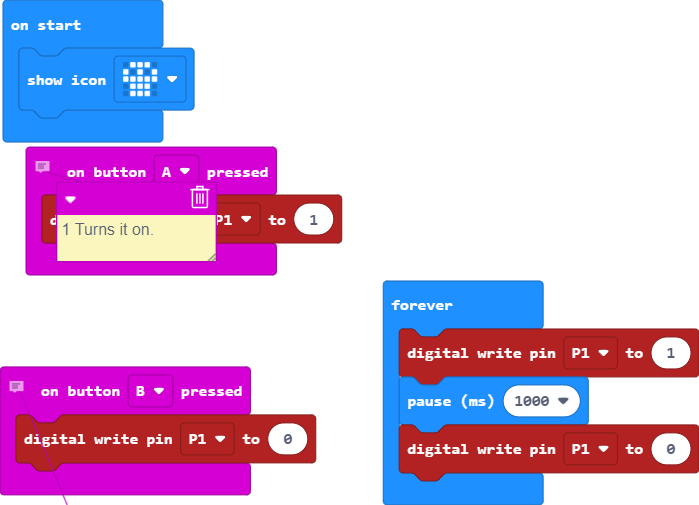
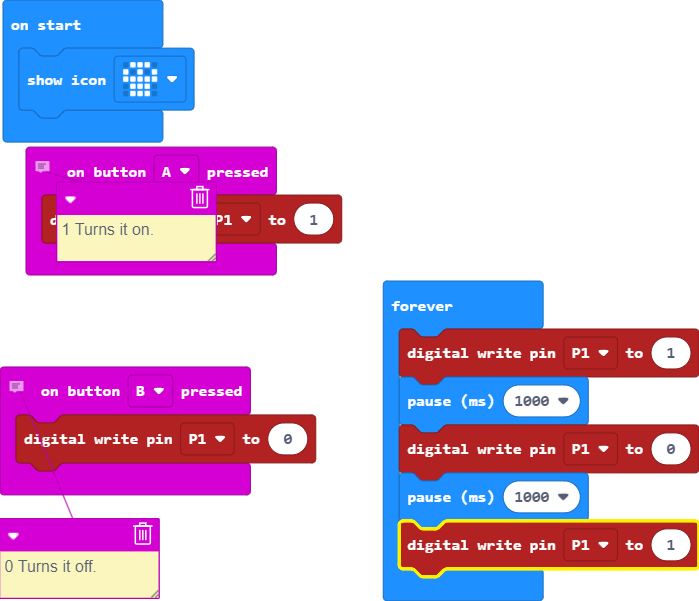
Update main.blocks, main.ts

diff --git a/main.ts b/main.ts
@@ -11,4 +11,6 @@ basic.forever(function () {
     pins.digitalWritePin(DigitalPin.P1, 1)
     basic.pause(1000)
     pins.digitalWritePin(DigitalPin.P1, 0)
+    basic.pause(1000)
+    pins.digitalWritePin(DigitalPin.P1, 1)
 })
